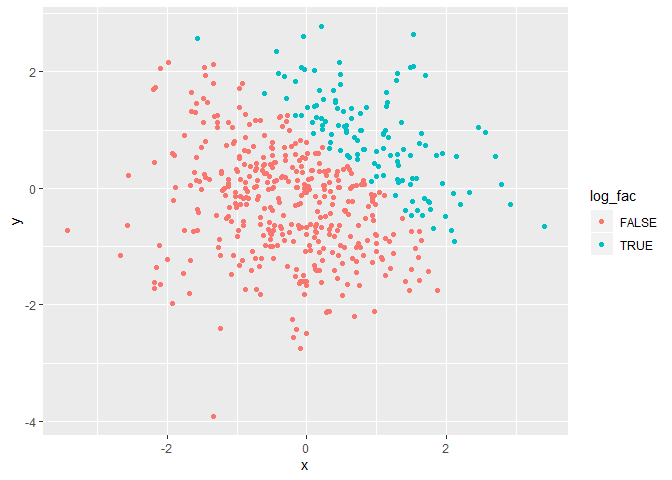
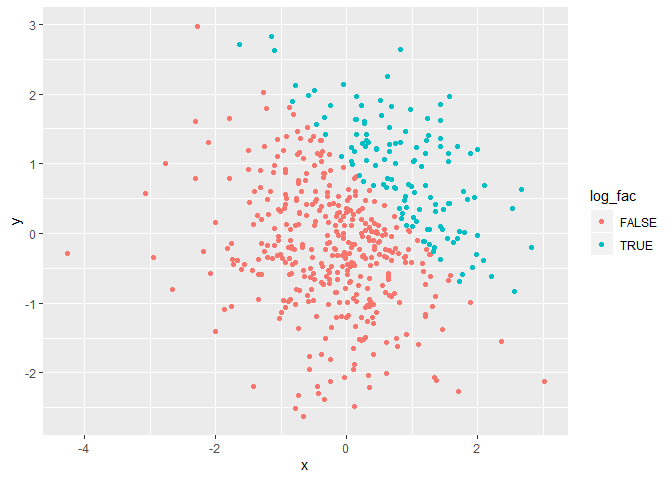
Fixed where something was hard coded and changed it to a function.

diff --git a/p8105_hw1_jt3175.md b/p8105_hw1_jt3175.md
@@ -37,13 +37,13 @@ words.
 mean(pull(simple_df1, sample_norm))
 ```
 
-    ## [1] 0.6777485
+    ## [1] 0.2323774
 
 ``` r
 mean(pull(simple_df1, gr_th_0))
 ```
 
-    ## [1] 0.625
+    ## [1] 0.375
 
 ``` r
 mean(pull(simple_df1, vec_char))
@@ -110,34 +110,34 @@ rs_x_log_to_fac_to_num = log_to_fac_to_num * pull(simple_df1, sample_norm)
 log_to_num
 ```
 
-    ## [1] 1 1 0 0 1 0 1 1
+    ## [1] 0 0 0 1 0 1 1 0
 
 ``` r
 log_to_fac
 ```
 
-    ## [1] TRUE  TRUE  FALSE FALSE TRUE  FALSE TRUE  TRUE 
+    ## [1] FALSE FALSE FALSE TRUE  FALSE TRUE  TRUE  FALSE
     ## Levels: FALSE TRUE
 
 ``` r
 log_to_fac_to_num
 ```
 
-    ## [1] 2 2 1 1 2 1 2 2
+    ## [1] 1 1 1 2 1 2 2 1
 
 ``` r
 rs_x_log_to_num
 ```
 
-    ## [1] 1.6735333 1.0333406 0.0000000 0.0000000 0.8439434 0.0000000 2.3330887
-    ## [8] 0.6089408
+    ## [1] 0.0000000 0.0000000 0.0000000 0.1854127 0.0000000 1.9321560 2.1865382
+    ## [8] 0.0000000
 
 ``` r
 rs_x_log_to_fac_to_num
 ```
 
-    ## [1]  3.3470667  2.0666813 -0.3289838 -0.5646497  1.6878868 -0.1772250
-    ## [7]  4.6661774  1.2178816
+    ## [1] -0.4280574 -0.2423291 -0.6385973  0.3708255 -0.9504702  3.8643120
+    ## [7]  4.3730764 -0.1856334
 
 ## Problem 2
 
@@ -153,10 +153,10 @@ simple_df2 = tibble(
 
 The above dataframe contains 5 variables *(x, y, gr\_th\_1, log\_num,
 log\_fac)* of 500 observations each. X and y are both normally
-distributed variables. X has a mean of -0.0161201, median of -0.0119231,
-and standard deviation of 1.0454934. The variable *gr\_th\_1* represents
-whether x + y is greater than 1. There are 121/500 cases where x + y is
-greater than 1.
+distributed variables. X has a mean of 0.0331009, median of 0.0506869,
+and standard deviation of 0.9927146. The variable *gr\_th\_1* represents
+whether x + y is greater than 1. There are 125/500 (0.25) cases where
+x+y is greater than 1.
 
 Below are three scatterplots of y vs x. On the first, points are colored
 using the logical variable. The second and third scatterplots color
